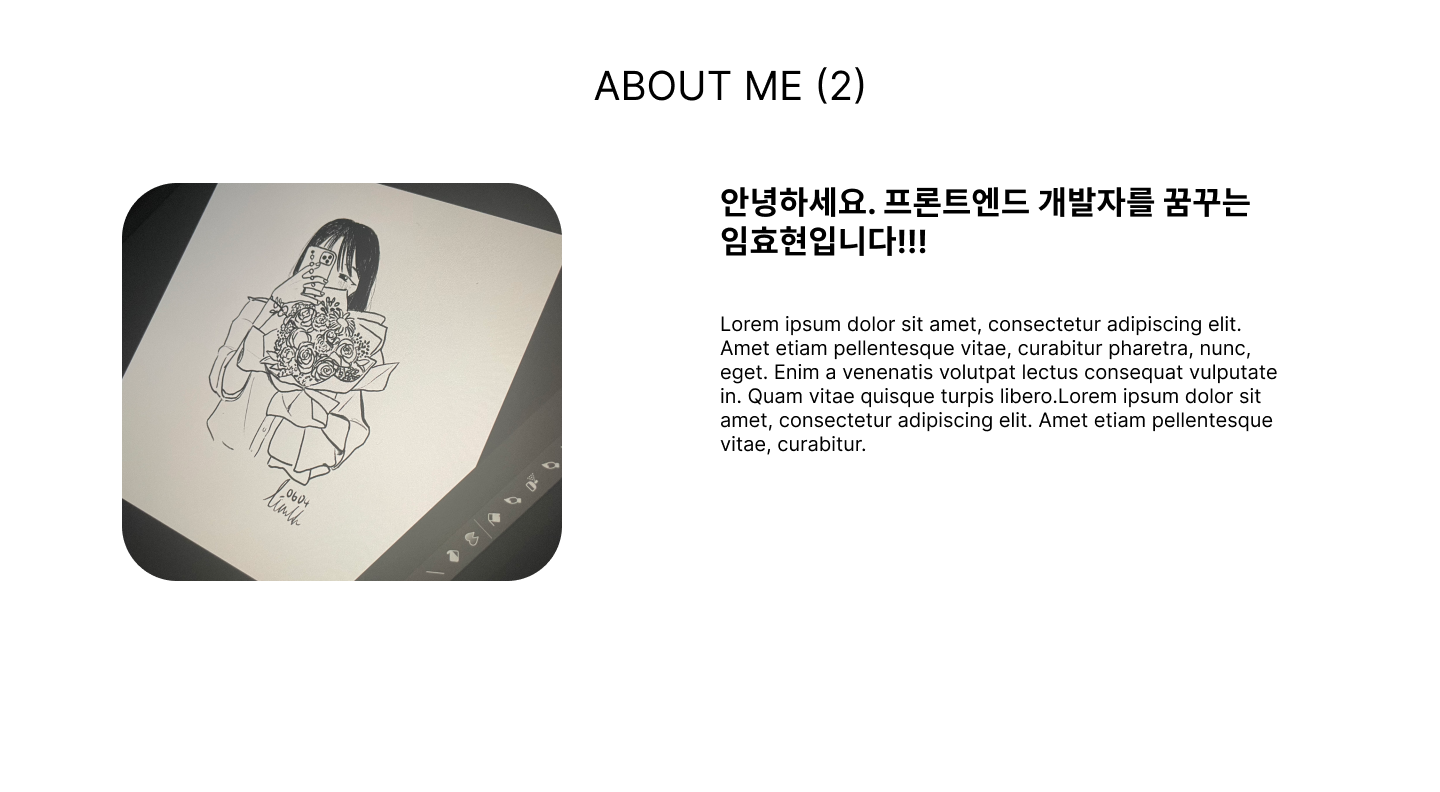
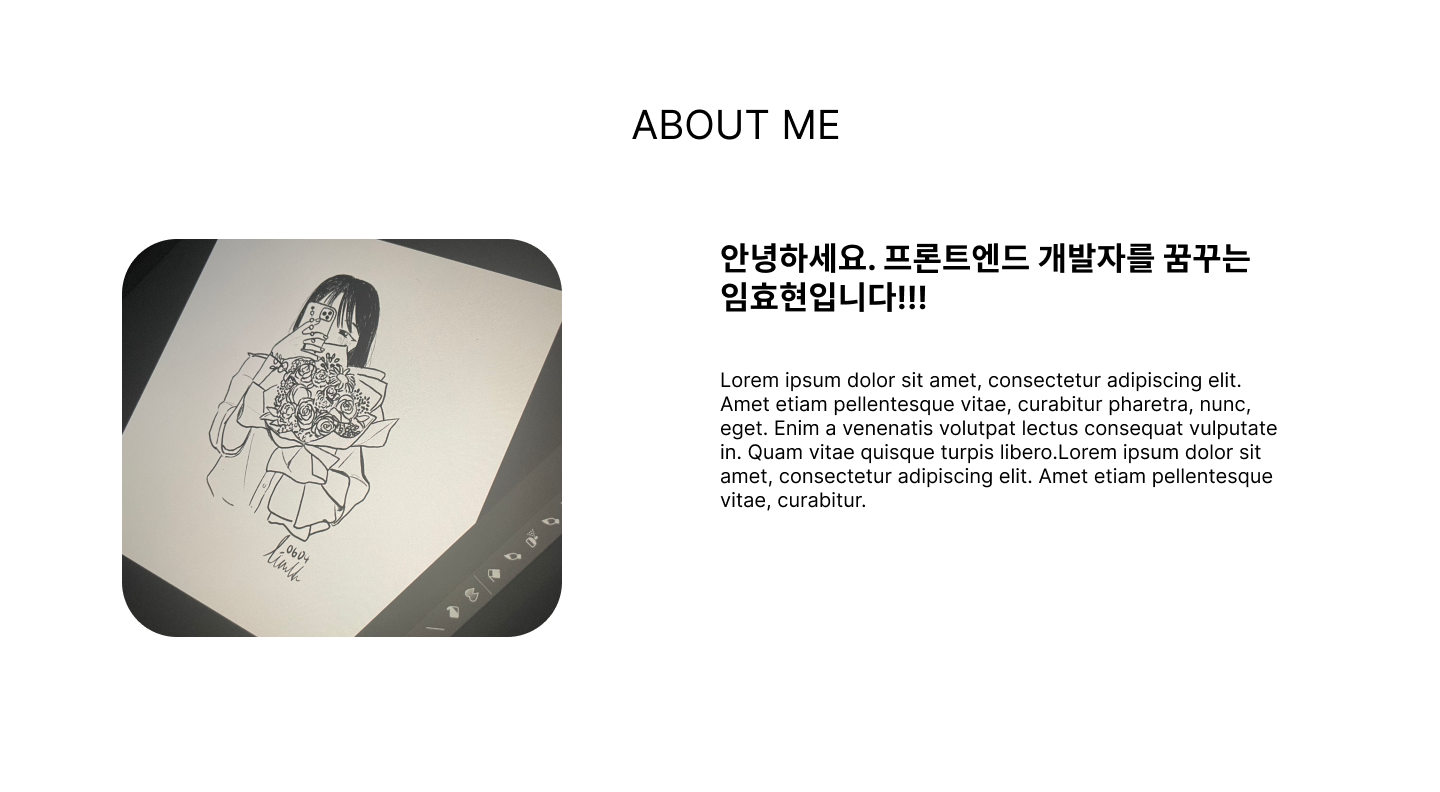
💄 Style: setting aboutME UI 수정(30%)
- 세팅 타입1,2 안들어가져서 ui수정 못함

Changed region(s): [[0.0625, 0.2121, 0.4062, 0.8182], [0.5, 0.2121, 0.9062, 0.6364], [0.4062, 0.0909, 0.5938, 0.1818]]

diff --git a/src/main/resources/static/css/setting/settingAboutMe.css b/src/main/resources/static/css/setting/settingAboutMe.css
@@ -1,58 +1,52 @@
 @import url(../mainStyle.css); 
 
-body{
-    position: relative;
-    display: flex;
+.main-wrap{
     width: 100%;
-    /* margin-top: -50px; */
     height: 100vh;
-}
-
-.ex-templates{
-    width: 100%;
-    /* background-color: blue; */
-    display: flex;
-    align-items: center;
-}
-
-
-.ex-templates > div{
-    display: inline-block;
-    place-content: center;
     position: relative;
-    /* background-color: wheat; */
-    text-align: center;
-    
 }
 
-.ex-template1{
-    /* background-color: green; */
-    text-align: center;
-    margin: 0 auto;
+.ex-template-wrap{
+    width: 1000px;
+    height: 340px;
 
-    padding: 200px;
-    box-sizing: border-box;
-    width: 100px;
-    height: 100px;
-}
-
-
-button {
-    height: 300px;
-    width: 400px;
     position: absolute;
-    margin: -200px -200px;
-    padding: 100px;
-}
-
-.ex-templates > div > p{
-    height: 100px;
-    width: 100px;
-    position: absolute;
-    margin: 100px -50px;
     top: 50%;
     left: 50%;
-    padding: 5%;
+    transform: translate(-50%, -50%);
+
+    display: flex;
+    justify-content: space-between;
+    text-align: center;
 }
 
+.ex-template{
+    display: flex;
+    flex-direction: column;
+    justify-content: space-between;
+    width: 45%;
+}
 
+/* 버튼 스타일링 */
+button{
+    width: 100%;
+    height: 80%;
+    border: none;
+    border-radius: 20px;
+    background-color: inherit;
+    background-size: contain;
+    background-repeat: no-repeat;
+    box-shadow: 1px 1px 5px var(--gray500);
+    transition: 0.3s;
+}
+button:hover{
+    box-shadow: 1px 1px 15px var(--gray500);
+    transform: scale(1.02);
+}
+
+.btn-ex1{
+    background-image: url("../../img/ABOUT_ME.png");
+}
+.btn-ex2{
+    background-image: url("../../img/AboutME2.png");
+}

diff --git a/src/main/resources/templates/setting/settingAboutMe.html b/src/main/resources/templates/setting/settingAboutMe.html
@@ -6,26 +6,24 @@
     <link th:href="@{/css/setting/settingAboutMe.css}" rel="stylesheet">
 </th:block>
 
-<th:block layout:fragment="script">
-    <script src="https://kit.fontawesome.com/71b0ef762e.js" crossorigin="anonymous"></script>
-</th:block>
 
-<!-- fontawesome - 아이콘-->
 <th:block layout:fragment="content">
     <!-- aboutME 예시 템플릿 -->
-    <div class="ex-templates">
-        <!-- 예시 템플릿1 -->
-        <div class="ex-template1">
-            <button class="ex1" type="button" th:onclick="|location.href='@{/setting/aboutmet1}'|" ></button>
-            <p>예시1</p>
+    <section class="main-wrap">
+        <div class="ex-template-wrap">
+            <!-- 예시 템플릿1 -->
+            <div class="ex-template">
+                <button class="btn-ex1" type="button" th:onclick="|location.href='@{/setting/aboutmet1}'|" ></button>
+                <h4>TYPE 1</h4>
+            </div>
+    
+            <!-- 예시 템플릿2 -->
+            <div class="ex-template">
+                <button class="btn-ex2" type="button" th:onclick="|location.href='@{/setting/aboutmet2}'|"></button>
+                <h4>TYPE 2</h4>
+            </div>
         </div>
-
-        <!-- 예시 템플릿2 -->
-        <div class="ex-template1">
-            <button class="ex2" type="button" th:onclick="|location.href='@{/setting/aboutmet2}'|"></button>
-            <p>예시2</p>
-        </div>
-    </div>
+    </section>
 </th:block>
 
 </html>

diff --git a/src/main/resources/templates/setting/settingHome.html b/src/main/resources/templates/setting/settingHome.html
@@ -6,10 +6,6 @@
     <link th:href="@{/css/setting/settingHome.css}" rel="stylesheet">
 </th:block>
 
-<th:block layout:fragment="script">
-    <script src="https://kit.fontawesome.com/71b0ef762e.js" crossorigin="anonymous"></script>
-</th:block>
-
 <!-- fontawesome - 아이콘-->
 <th:block layout:fragment="content">
     <div class="hometpl">

diff --git a/src/main/resources/static/css/setting/settingHeader.css b/src/main/resources/static/css/setting/settingHeader.css
@@ -3,8 +3,9 @@
 .setting-header{
     font-weight: bold;
     font-size: 50px;
-    margin: 0.4%;
-    margin-left: 0.7%;
+    top: 10px;
+    left: 30px;
+    position: fixed;
 }
 
 .setting-header::before{

diff --git a/src/main/resources/static/css/setting/settingHome.css b/src/main/resources/static/css/setting/settingHome.css
@@ -6,6 +6,7 @@
     width: 100%;
     top: 50%;
     transform: translate(0,-50%);
+    background-color: red;
 }
 
 .basic-templates {
